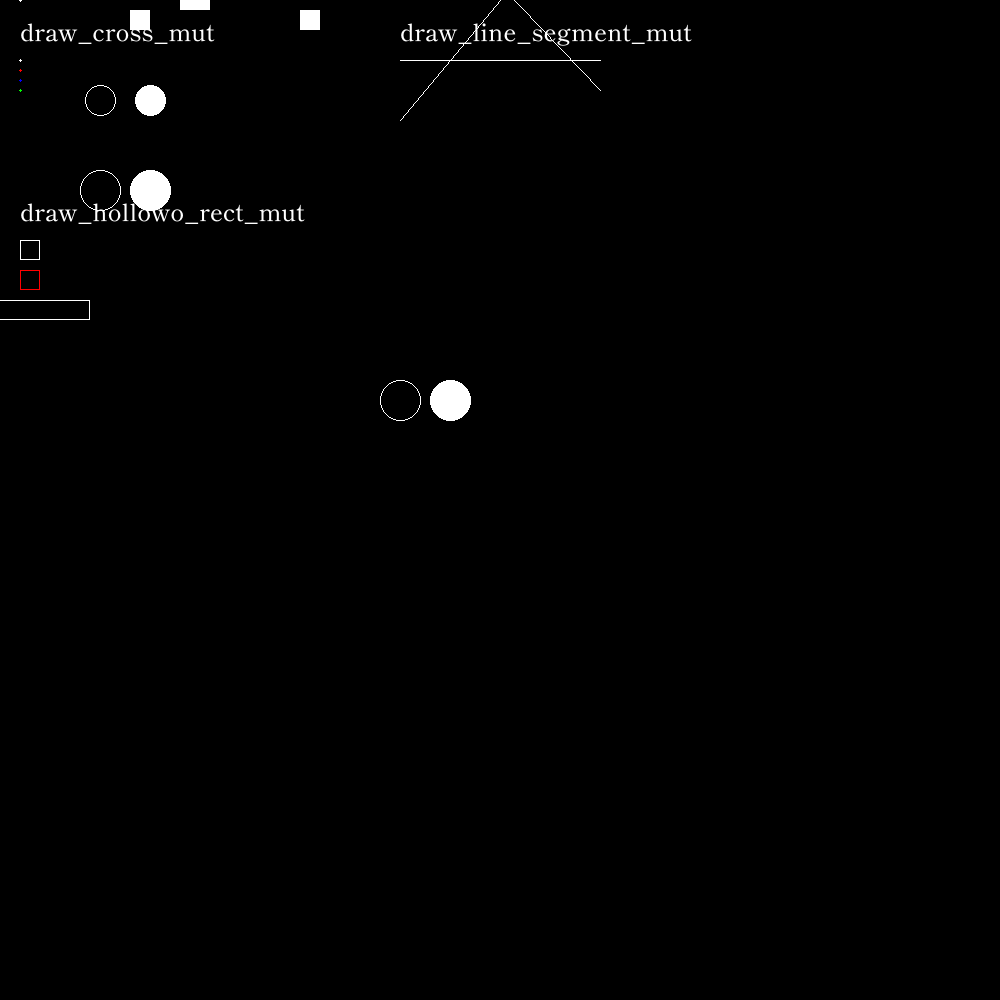
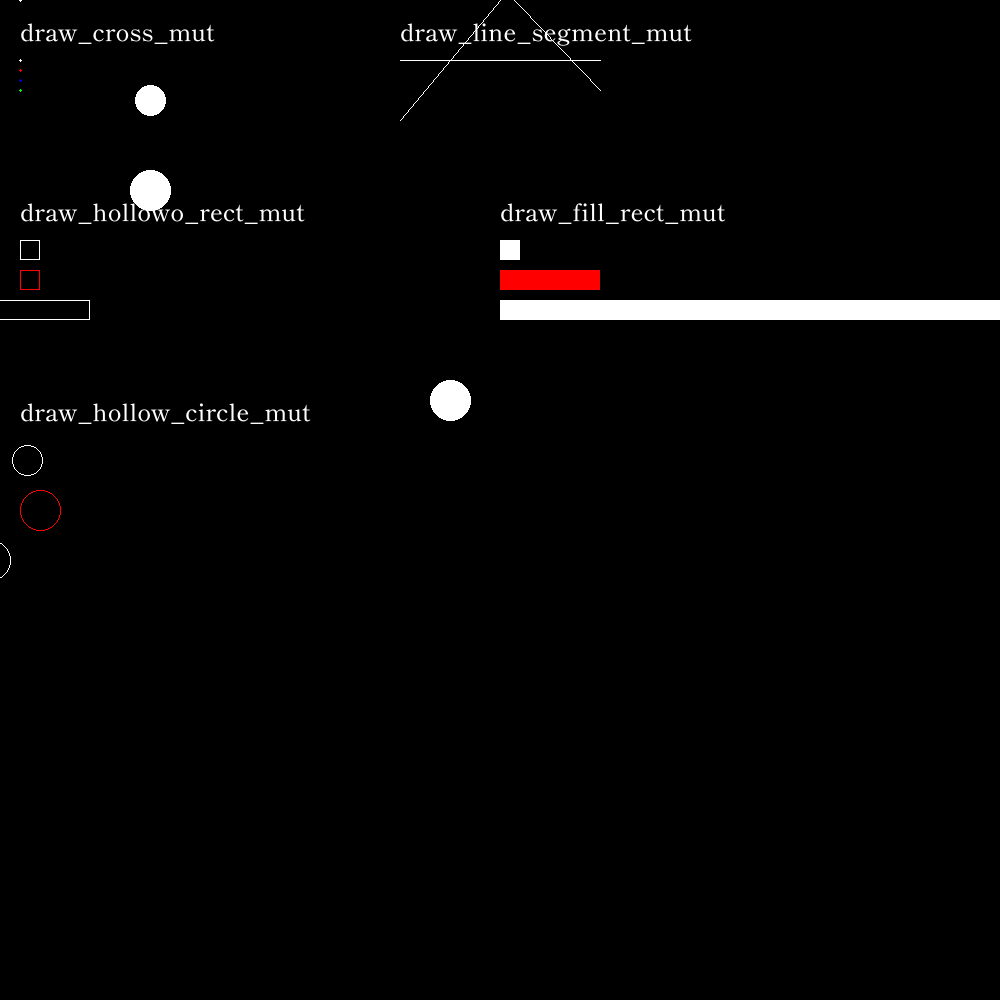
hollow circleの呼び出し

diff --git a/projects/learn_image_process/image_process/src/use_image_proc/drawing.rs b/projects/learn_image_process/image_process/src/use_image_proc/drawing.rs
@@ -93,31 +93,46 @@ fn mut_func() {
         white,
     );
 
+    // draw fill rect
+    imageproc::drawing::draw_text_mut(
+        &mut image,
+        white,
+        500,
+        200,
+        scale,
+        &font,
+        "draw_fill_rect_mut",
+    );
     // Draw a filled rect within bounds
     imageproc::drawing::draw_filled_rect_mut(
         &mut image,
-        imageproc::rect::Rect::at(130, 10).of_size(20, 20),
+        imageproc::rect::Rect::at(500, 240).of_size(20, 20),
         white,
     );
-    // Outside bounds
     imageproc::drawing::draw_filled_rect_mut(
         &mut image,
-        imageproc::rect::Rect::at(300, 10).of_size(20, 20),
-        white,
+        imageproc::rect::Rect::at(500, 270).of_size(100, 20),
+        red,
     );
-    // Partially outside bounds
     imageproc::drawing::draw_filled_rect_mut(
         &mut image,
-        imageproc::rect::Rect::at(180, -10).of_size(30, 20),
+        imageproc::rect::Rect::at(500, 300).of_size(600, 20),
         white,
     );
 
-    // Draw a hollow circle within bounds
-    imageproc::drawing::draw_hollow_circle_mut(&mut image, (100, 100), 15, white);
-    // Outside bounds
-    imageproc::drawing::draw_hollow_circle_mut(&mut image, (400, 400), 20, white);
-    // Partially outside bounds
-    imageproc::drawing::draw_hollow_circle_mut(&mut image, (100, 190), 20, white);
+    // draw hollow circle
+    imageproc::drawing::draw_text_mut(
+        &mut image,
+        white,
+        20,
+        400,
+        scale,
+        &font,
+        "draw_hollow_circle_mut",
+    );
+    imageproc::drawing::draw_hollow_circle_mut(&mut image, (27, 460), 15, white);
+    imageproc::drawing::draw_hollow_circle_mut(&mut image, (40, 510), 20, red);
+    imageproc::drawing::draw_hollow_circle_mut(&mut image, (-10, 560), 20, white);
 
     // Draw a filled circle within bounds
     imageproc::drawing::draw_filled_circle_mut(&mut image, (150, 100), 15, white);
